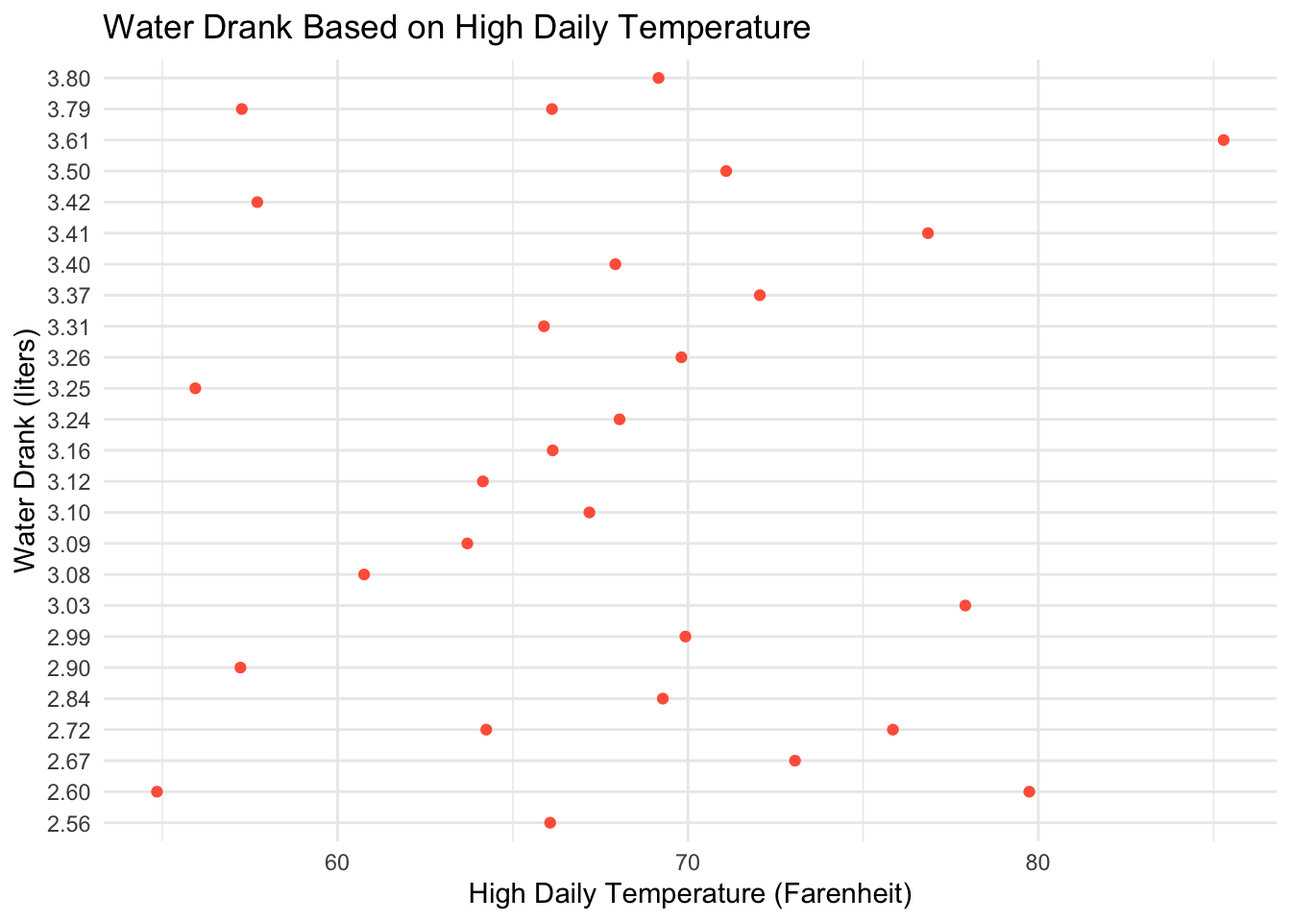
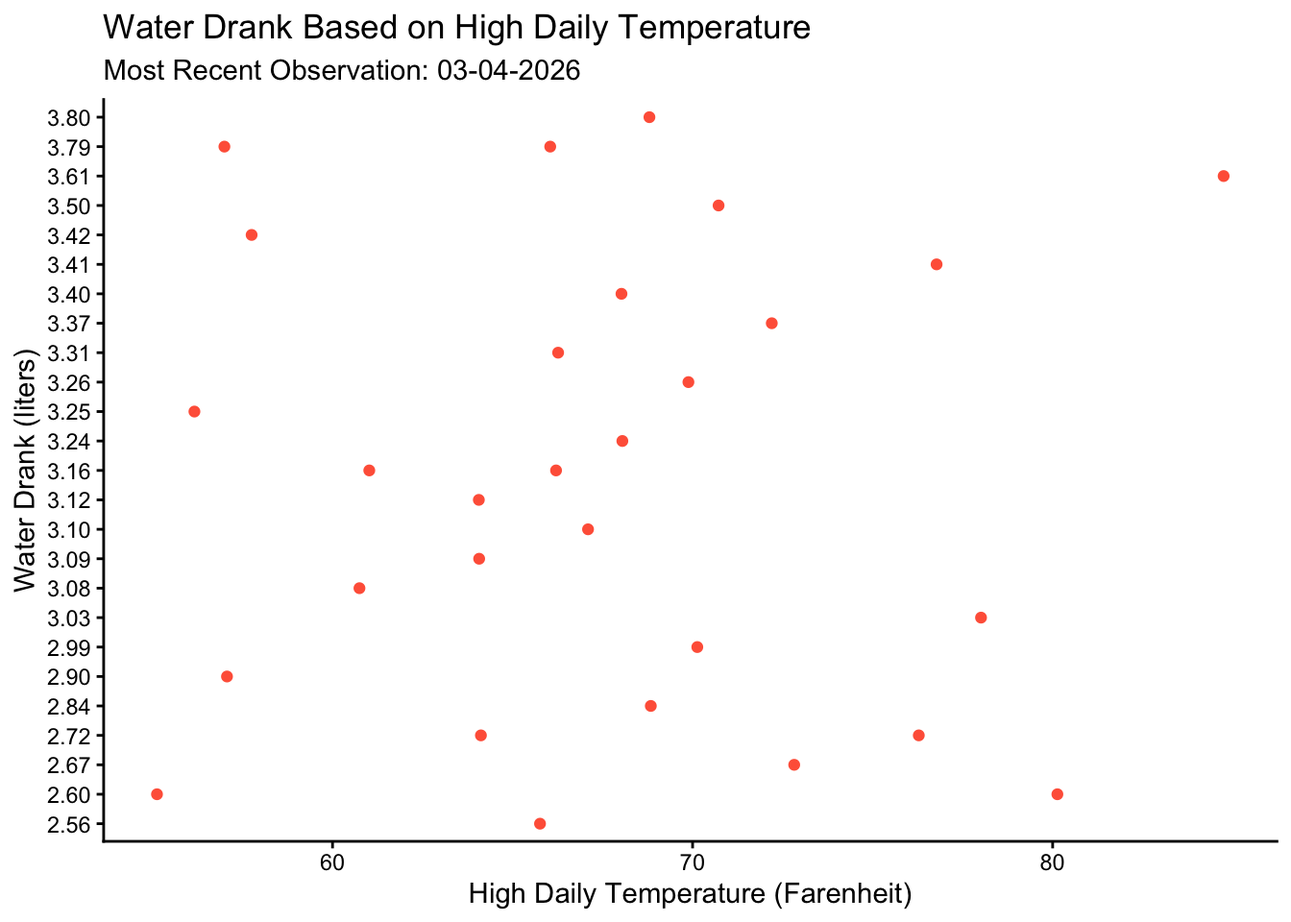
Committing all of my code and data

diff --git a/code/Homework-03.html b/code/Homework-03.html
@@ -135,7 +135,7 @@ window.Quarto = {
 
 
 <div class="cell">
-<div class="sourceCode cell-code" id="cb1"><pre class="sourceCode r code-with-copy"><code class="sourceCode r"><span id="cb1-1"><a href="#cb1-1" aria-hidden="true" tabindex="-1"></a><span class="fu">library</span>(tidyverse)</span></code><button title="Copy to Clipboard" class="code-copy-button"><i class="bi"></i></button></pre></div>
+<div class="sourceCode cell-code" id="cb1"><pre class="sourceCode r code-with-copy"><code class="sourceCode r"><span id="cb1-1"><a href="#cb1-1" aria-hidden="true" tabindex="-1"></a><span class="fu">library</span>(tidyverse) </span></code><button title="Copy to Clipboard" class="code-copy-button"><i class="bi"></i></button></pre></div>
 <div class="cell-output cell-output-stderr">
 <pre><code>── Attaching core tidyverse packages ──────────────────────── tidyverse 2.0.0 ──
 ✔ dplyr     1.2.0     ✔ readr     2.1.6
@@ -158,14 +158,14 @@ The following objects are masked from 'package:stats':
     chisq.test, fisher.test</code></pre>
 </div>
 <div class="sourceCode cell-code" id="cb5"><pre class="sourceCode r code-with-copy"><code class="sourceCode r"><span id="cb5-1"><a href="#cb5-1" aria-hidden="true" tabindex="-1"></a><span class="fu">library</span>(readxl)</span>
-<span id="cb5-2"><a href="#cb5-2" aria-hidden="true" tabindex="-1"></a><span class="fu">library</span>(ggeffects)</span></code><button title="Copy to Clipboard" class="code-copy-button"><i class="bi"></i></button></pre></div>
+<span id="cb5-2"><a href="#cb5-2" aria-hidden="true" tabindex="-1"></a><span class="fu">library</span>(ggeffects) <span class="co">#loading in the necessary packages for the homework assignment</span></span></code><button title="Copy to Clipboard" class="code-copy-button"><i class="bi"></i></button></pre></div>
 </div>
 <div class="cell">
-<div class="sourceCode cell-code" id="cb6"><pre class="sourceCode r code-with-copy"><code class="sourceCode r"><span id="cb6-1"><a href="#cb6-1" aria-hidden="true" tabindex="-1"></a><span class="fu">library</span>(here)</span></code><button title="Copy to Clipboard" class="code-copy-button"><i class="bi"></i></button></pre></div>
+<div class="sourceCode cell-code" id="cb6"><pre class="sourceCode r code-with-copy"><code class="sourceCode r"><span id="cb6-1"><a href="#cb6-1" aria-hidden="true" tabindex="-1"></a><span class="fu">library</span>(here) <span class="co">#building path from the root of my project folder</span></span></code><button title="Copy to Clipboard" class="code-copy-button"><i class="bi"></i></button></pre></div>
 <div class="cell-output cell-output-stderr">
 <pre><code>here() starts at /Users/danielmatthys/github/ENVS-193DS_homework-03</code></pre>
 </div>
-<div class="sourceCode cell-code" id="cb8"><pre class="sourceCode r code-with-copy"><code class="sourceCode r"><span id="cb8-1"><a href="#cb8-1" aria-hidden="true" tabindex="-1"></a>salinity <span class="ot">&lt;-</span> <span class="fu">read.csv</span>(<span class="fu">here</span>(<span class="st">"data"</span>, <span class="st">"salinity-pickleweed.csv"</span>))</span></code><button title="Copy to Clipboard" class="code-copy-button"><i class="bi"></i></button></pre></div>
+<div class="sourceCode cell-code" id="cb8"><pre class="sourceCode r code-with-copy"><code class="sourceCode r"><span id="cb8-1"><a href="#cb8-1" aria-hidden="true" tabindex="-1"></a>salinity <span class="ot">&lt;-</span> <span class="fu">read.csv</span>(<span class="fu">here</span>(<span class="st">"data"</span>, <span class="st">"salinity-pickleweed.csv"</span>)) <span class="co">#reading in my salinity and pickleweed data</span></span></code><button title="Copy to Clipboard" class="code-copy-button"><i class="bi"></i></button></pre></div>
 </div>
 <section id="problem-1" class="level2">
 <h2 class="anchored" data-anchor-id="problem-1">Problem 1</h2>
@@ -173,17 +173,17 @@ The following objects are masked from 'package:stats':
 <p>The appropriate tests to determine the strength of the relationship between salinity and pickleweed biomass are the Pearson’s correlation and Spearman rank correlation tests, telling us the significance of the effects of the predictor variable of salinity (mS/cm) on response variable pickleweed biomass (g). Pearson’s correlation is to be used if there is a linear relationship between the variables, variables are continuous, variables are normally distributed, and there are independent observations. Spearman rank correlation is to be used if there is a monotonic relationship between variables and there are independent observations.</p>
 <p><strong>b. Create visualization</strong></p>
 <div class="cell">
-<div class="sourceCode cell-code" id="cb9"><pre class="sourceCode r code-with-copy"><code class="sourceCode r"><span id="cb9-1"><a href="#cb9-1" aria-hidden="true" tabindex="-1"></a>salinity_lm <span class="ot">&lt;-</span> <span class="fu">lm</span>(</span>
-<span id="cb9-2"><a href="#cb9-2" aria-hidden="true" tabindex="-1"></a>                  pickleweed <span class="sc">~</span> salinity_mS_cm,</span>
-<span id="cb9-3"><a href="#cb9-3" aria-hidden="true" tabindex="-1"></a>                  <span class="at">data =</span> salinity)</span></code><button title="Copy to Clipboard" class="code-copy-button"><i class="bi"></i></button></pre></div>
+<div class="sourceCode cell-code" id="cb9"><pre class="sourceCode r code-with-copy"><code class="sourceCode r"><span id="cb9-1"><a href="#cb9-1" aria-hidden="true" tabindex="-1"></a>salinity_lm <span class="ot">&lt;-</span> <span class="fu">lm</span>( <span class="co">#creating an object called salinity_lm based on my linear model fit</span></span>
+<span id="cb9-2"><a href="#cb9-2" aria-hidden="true" tabindex="-1"></a>                  pickleweed <span class="sc">~</span> salinity_mS_cm, <span class="co">#using pickleweed biomass as the response and salinity as the predictor variables</span></span>
+<span id="cb9-3"><a href="#cb9-3" aria-hidden="true" tabindex="-1"></a>                  <span class="at">data =</span> salinity) <span class="co">#using the salinity object as my data</span></span></code><button title="Copy to Clipboard" class="code-copy-button"><i class="bi"></i></button></pre></div>
 </div>
 <div class="cell">
-<div class="sourceCode cell-code" id="cb10"><pre class="sourceCode r code-with-copy"><code class="sourceCode r"><span id="cb10-1"><a href="#cb10-1" aria-hidden="true" tabindex="-1"></a>salinity_preds <span class="ot">&lt;-</span> <span class="fu">ggpredict</span>(</span>
-<span id="cb10-2"><a href="#cb10-2" aria-hidden="true" tabindex="-1"></a>  salinity_lm,</span>
-<span id="cb10-3"><a href="#cb10-3" aria-hidden="true" tabindex="-1"></a>  <span class="at">terms =</span> <span class="st">"salinity_mS_cm"</span></span>
+<div class="sourceCode cell-code" id="cb10"><pre class="sourceCode r code-with-copy"><code class="sourceCode r"><span id="cb10-1"><a href="#cb10-1" aria-hidden="true" tabindex="-1"></a>salinity_preds <span class="ot">&lt;-</span> <span class="fu">ggpredict</span>( <span class="co">#creating an object called salinity_preds based on the ggpredict function, which visualizes predictions from the multiple regression models</span></span>
+<span id="cb10-2"><a href="#cb10-2" aria-hidden="true" tabindex="-1"></a>  salinity_lm, <span class="co">#using the salinity_lm object as my data</span></span>
+<span id="cb10-3"><a href="#cb10-3" aria-hidden="true" tabindex="-1"></a>  <span class="at">terms =</span> <span class="st">"salinity_mS_cm"</span> <span class="co">#going off of the salinity values</span></span>
 <span id="cb10-4"><a href="#cb10-4" aria-hidden="true" tabindex="-1"></a>)</span>
 <span id="cb10-5"><a href="#cb10-5" aria-hidden="true" tabindex="-1"></a></span>
-<span id="cb10-6"><a href="#cb10-6" aria-hidden="true" tabindex="-1"></a>salinity_preds</span></code><button title="Copy to Clipboard" class="code-copy-button"><i class="bi"></i></button></pre></div>
+<span id="cb10-6"><a href="#cb10-6" aria-hidden="true" tabindex="-1"></a>salinity_preds <span class="co">#displaying results</span></span></code><button title="Copy to Clipboard" class="code-copy-button"><i class="bi"></i></button></pre></div>
 <div class="cell-output cell-output-stdout">
 <pre><code># Predicted values of pickleweed
 
@@ -205,23 +205,25 @@ Not all rows are shown in the output. Use `print(..., n = Inf)` to show
 </div>
 </div>
 <div class="cell">
-<div class="sourceCode cell-code" id="cb13"><pre class="sourceCode r code-with-copy"><code class="sourceCode r"><span id="cb13-1"><a href="#cb13-1" aria-hidden="true" tabindex="-1"></a><span class="fu">ggplot</span>(<span class="at">data =</span> salinity,</span>
+<div class="sourceCode cell-code" id="cb13"><pre class="sourceCode r code-with-copy"><code class="sourceCode r"><span id="cb13-1"><a href="#cb13-1" aria-hidden="true" tabindex="-1"></a><span class="fu">ggplot</span>(<span class="at">data =</span> salinity, <span class="co">#creating a ggplot based on the salinity data</span></span>
 <span id="cb13-2"><a href="#cb13-2" aria-hidden="true" tabindex="-1"></a>       <span class="fu">aes</span>(<span class="at">x =</span> salinity_mS_cm,</span>
-<span id="cb13-3"><a href="#cb13-3" aria-hidden="true" tabindex="-1"></a>           <span class="at">y =</span> pickleweed)) <span class="sc">+</span> </span>
+<span id="cb13-3"><a href="#cb13-3" aria-hidden="true" tabindex="-1"></a>           <span class="at">y =</span> pickleweed)) <span class="sc">+</span> <span class="co">#x-axis shows the salinity values, y-axis shows the pickleweed biomass</span></span>
 <span id="cb13-4"><a href="#cb13-4" aria-hidden="true" tabindex="-1"></a>  <span class="fu">geom_point</span>(<span class="at">fill =</span> <span class="st">"tomato"</span>,</span>
-<span id="cb13-5"><a href="#cb13-5" aria-hidden="true" tabindex="-1"></a>             <span class="at">shape =</span> <span class="dv">22</span>) <span class="sc">+</span> </span>
-<span id="cb13-6"><a href="#cb13-6" aria-hidden="true" tabindex="-1"></a>  <span class="fu">geom_ribbon</span>(<span class="at">data =</span> salinity_preds,</span>
-<span id="cb13-7"><a href="#cb13-7" aria-hidden="true" tabindex="-1"></a>              <span class="fu">aes</span>(<span class="at">x =</span> x,</span>
-<span id="cb13-8"><a href="#cb13-8" aria-hidden="true" tabindex="-1"></a>                  <span class="at">y =</span> predicted,</span>
-<span id="cb13-9"><a href="#cb13-9" aria-hidden="true" tabindex="-1"></a>                  <span class="at">ymin =</span> conf.low,</span>
-<span id="cb13-10"><a href="#cb13-10" aria-hidden="true" tabindex="-1"></a>                  <span class="at">ymax =</span> conf.high,</span>
-<span id="cb13-11"><a href="#cb13-11" aria-hidden="true" tabindex="-1"></a>                  <span class="at">alpha =</span> <span class="fl">0.1</span>)) <span class="sc">+</span> </span>
-<span id="cb13-12"><a href="#cb13-12" aria-hidden="true" tabindex="-1"></a>  <span class="fu">geom_line</span>(<span class="at">data =</span> salinity_preds,</span>
-<span id="cb13-13"><a href="#cb13-13" aria-hidden="true" tabindex="-1"></a>            <span class="fu">aes</span>(<span class="at">x =</span> x,</span>
-<span id="cb13-14"><a href="#cb13-14" aria-hidden="true" tabindex="-1"></a>                <span class="at">y =</span> predicted),</span>
-<span id="cb13-15"><a href="#cb13-15" aria-hidden="true" tabindex="-1"></a>            <span class="at">color =</span> <span class="st">"blue"</span>) <span class="sc">+</span></span>
-<span id="cb13-16"><a href="#cb13-16" aria-hidden="true" tabindex="-1"></a>  <span class="fu">labs</span>(<span class="at">x =</span> <span class="st">"Salinity (mS/cm)"</span>,</span>
-<span id="cb13-17"><a href="#cb13-17" aria-hidden="true" tabindex="-1"></a>       <span class="at">y =</span> <span class="st">"Pickleweed biomass (g)"</span>) </span></code><button title="Copy to Clipboard" class="code-copy-button"><i class="bi"></i></button></pre></div>
+<span id="cb13-5"><a href="#cb13-5" aria-hidden="true" tabindex="-1"></a>             <span class="at">shape =</span> <span class="dv">22</span>) <span class="sc">+</span> <span class="co">#adding points to the plot to represent observations, making them red and squares</span></span>
+<span id="cb13-6"><a href="#cb13-6" aria-hidden="true" tabindex="-1"></a>  <span class="fu">geom_ribbon</span>(<span class="at">data =</span> salinity_preds, <span class="co">#adding a ribbon to visually represent the predictions of my multiple regression models</span></span>
+<span id="cb13-7"><a href="#cb13-7" aria-hidden="true" tabindex="-1"></a>              <span class="fu">aes</span>(<span class="at">x =</span> x, <span class="co">#x-axis is the x values</span></span>
+<span id="cb13-8"><a href="#cb13-8" aria-hidden="true" tabindex="-1"></a>                  <span class="at">y =</span> predicted, <span class="co">#y-axis is the predicted values</span></span>
+<span id="cb13-9"><a href="#cb13-9" aria-hidden="true" tabindex="-1"></a>                  <span class="at">ymin =</span> conf.low, <span class="co">#y-min is the low-end of the confidence interval</span></span>
+<span id="cb13-10"><a href="#cb13-10" aria-hidden="true" tabindex="-1"></a>                  <span class="at">ymax =</span> conf.high, <span class="co">#y-max is the high-end of the confidence interval</span></span>
+<span id="cb13-11"><a href="#cb13-11" aria-hidden="true" tabindex="-1"></a>                  <span class="at">alpha =</span> <span class="fl">0.1</span>)) <span class="sc">+</span> <span class="co">#changing the transparency value</span></span>
+<span id="cb13-12"><a href="#cb13-12" aria-hidden="true" tabindex="-1"></a>  <span class="fu">geom_line</span>(<span class="at">data =</span> salinity_preds, <span class="co">#adding in an equation line for my linear regression model</span></span>
+<span id="cb13-13"><a href="#cb13-13" aria-hidden="true" tabindex="-1"></a>            <span class="fu">aes</span>(<span class="at">x =</span> x, <span class="co">#x-axis is the x values</span></span>
+<span id="cb13-14"><a href="#cb13-14" aria-hidden="true" tabindex="-1"></a>                <span class="at">y =</span> predicted), <span class="co">#y-axis is the predicted values</span></span>
+<span id="cb13-15"><a href="#cb13-15" aria-hidden="true" tabindex="-1"></a>            <span class="at">color =</span> <span class="st">"blue"</span>) <span class="sc">+</span> <span class="co">#making the line blue</span></span>
+<span id="cb13-16"><a href="#cb13-16" aria-hidden="true" tabindex="-1"></a>  <span class="fu">theme_classic</span>() <span class="sc">+</span> <span class="co">#changing the theme to get rid of background noise (gridlines and color)</span></span>
+<span id="cb13-17"><a href="#cb13-17" aria-hidden="true" tabindex="-1"></a>  <span class="fu">labs</span>(<span class="at">x =</span> <span class="st">"Salinity (mS/cm)"</span>, <span class="co">#labeling the x-axis</span></span>
+<span id="cb13-18"><a href="#cb13-18" aria-hidden="true" tabindex="-1"></a>       <span class="at">y =</span> <span class="st">"Pickleweed biomass (g)"</span>, <span class="co">#labeling the y-axis</span></span>
+<span id="cb13-19"><a href="#cb13-19" aria-hidden="true" tabindex="-1"></a>       <span class="at">title =</span> <span class="st">"Pickleweed Biomass Depending on Salinity Levels"</span>) <span class="co">#creating a title</span></span></code><button title="Copy to Clipboard" class="code-copy-button"><i class="bi"></i></button></pre></div>
 <div class="cell-output-display">
 <div>
 <figure class="figure">
@@ -234,7 +236,7 @@ Not all rows are shown in the output. Use `print(..., n = Inf)` to show
 <p>Check assumptions</p>
 <div class="cell">
 <div class="sourceCode cell-code" id="cb14"><pre class="sourceCode r code-with-copy"><code class="sourceCode r"><span id="cb14-1"><a href="#cb14-1" aria-hidden="true" tabindex="-1"></a><span class="fu">par</span>(<span class="at">mfrow =</span> <span class="fu">c</span>(<span class="dv">2</span>,<span class="dv">2</span>))</span>
-<span id="cb14-2"><a href="#cb14-2" aria-hidden="true" tabindex="-1"></a><span class="fu">plot</span>(salinity_lm)</span></code><button title="Copy to Clipboard" class="code-copy-button"><i class="bi"></i></button></pre></div>
+<span id="cb14-2"><a href="#cb14-2" aria-hidden="true" tabindex="-1"></a><span class="fu">plot</span>(salinity_lm) <span class="co">#rendering my diagnostic plots for the salinity_lm data with 2 rows of 2</span></span></code><button title="Copy to Clipboard" class="code-copy-button"><i class="bi"></i></button></pre></div>
 <div class="cell-output-display">
 <div>
 <figure class="figure">
@@ -246,9 +248,9 @@ Not all rows are shown in the output. Use `print(..., n = Inf)` to show
 <p>Above, I created plots for residuals vs.&nbsp;fitted and scale-location to check the homoscedasticity of the observations, and because the red line is relatively straight it would suggest that the relationship between variables is linear. The Q-Q Residuals plot tells us whether there is normal distribution with the observations, and looking at this plot there is not significant deviation from the line and we can determine that there is normal distribution. Looking at the salinity data, the variables are continuous and the individual pickleweed plants are individual observations, which in conjunction with the above assumptions tells us that we can use Pearson’s correlation.</p>
 <p>Run your test</p>
 <div class="cell">
-<div class="sourceCode cell-code" id="cb15"><pre class="sourceCode r code-with-copy"><code class="sourceCode r"><span id="cb15-1"><a href="#cb15-1" aria-hidden="true" tabindex="-1"></a><span class="fu">cor.test</span>(salinity<span class="sc">$</span>salinity_mS_cm,</span>
+<div class="sourceCode cell-code" id="cb15"><pre class="sourceCode r code-with-copy"><code class="sourceCode r"><span id="cb15-1"><a href="#cb15-1" aria-hidden="true" tabindex="-1"></a><span class="fu">cor.test</span>(salinity<span class="sc">$</span>salinity_mS_cm, </span>
 <span id="cb15-2"><a href="#cb15-2" aria-hidden="true" tabindex="-1"></a>         salinity<span class="sc">$</span>pickleweed,</span>
-<span id="cb15-3"><a href="#cb15-3" aria-hidden="true" tabindex="-1"></a>         <span class="at">method =</span> <span class="st">"pearson"</span>)</span></code><button title="Copy to Clipboard" class="code-copy-button"><i class="bi"></i></button></pre></div>
+<span id="cb15-3"><a href="#cb15-3" aria-hidden="true" tabindex="-1"></a>         <span class="at">method =</span> <span class="st">"pearson"</span>) <span class="co">#running a Pearson's correlation test for the salinity data, with salinity as the predictor and pickleweed biomass as the response variables</span></span></code><button title="Copy to Clipboard" class="code-copy-button"><i class="bi"></i></button></pre></div>
 <div class="cell-output cell-output-stdout">
 <pre><code>
     Pearson's product-moment correlation
@@ -272,7 +274,7 @@ sample estimates:
 <div class="cell">
 <div class="sourceCode cell-code" id="cb17"><pre class="sourceCode r code-with-copy"><code class="sourceCode r"><span id="cb17-1"><a href="#cb17-1" aria-hidden="true" tabindex="-1"></a><span class="fu">cor.test</span>(salinity<span class="sc">$</span>salinity_mS_cm,</span>
 <span id="cb17-2"><a href="#cb17-2" aria-hidden="true" tabindex="-1"></a>         salinity<span class="sc">$</span>pickleweed,</span>
-<span id="cb17-3"><a href="#cb17-3" aria-hidden="true" tabindex="-1"></a>         <span class="at">method =</span> <span class="st">"spearman"</span>)</span></code><button title="Copy to Clipboard" class="code-copy-button"><i class="bi"></i></button></pre></div>
+<span id="cb17-3"><a href="#cb17-3" aria-hidden="true" tabindex="-1"></a>         <span class="at">method =</span> <span class="st">"spearman"</span>) <span class="co">#running a Spearman correlation test for the salinity data, with salinity as the predictor and pickleweed biomass as the response variables</span></span></code><button title="Copy to Clipboard" class="code-copy-button"><i class="bi"></i></button></pre></div>
 <div class="cell-output cell-output-stdout">
 <pre><code>
     Spearman's rank correlation rho
@@ -292,25 +294,26 @@ sample estimates:
 <h2 class="anchored" data-anchor-id="problem-2.-personal-data">Problem 2. Personal data</h2>
 <p><strong>a. Updating your visualizations</strong></p>
 <div class="cell">
-<div class="sourceCode cell-code" id="cb19"><pre class="sourceCode r code-with-copy"><code class="sourceCode r"><span id="cb19-1"><a href="#cb19-1" aria-hidden="true" tabindex="-1"></a><span class="fu">library</span>(here)</span>
+<div class="sourceCode cell-code" id="cb19"><pre class="sourceCode r code-with-copy"><code class="sourceCode r"><span id="cb19-1"><a href="#cb19-1" aria-hidden="true" tabindex="-1"></a><span class="fu">library</span>(here) <span class="co">#building path from the root of my project folder</span></span>
 <span id="cb19-2"><a href="#cb19-2" aria-hidden="true" tabindex="-1"></a></span>
-<span id="cb19-3"><a href="#cb19-3" aria-hidden="true" tabindex="-1"></a>personal <span class="ot">&lt;-</span> <span class="fu">read_xlsx</span>(<span class="fu">here</span>(<span class="st">"data/Data_Project_Water_Idea_HW3.xlsx"</span>))</span></code><button title="Copy to Clipboard" class="code-copy-button"><i class="bi"></i></button></pre></div>
+<span id="cb19-3"><a href="#cb19-3" aria-hidden="true" tabindex="-1"></a>personal <span class="ot">&lt;-</span> <span class="fu">read_xlsx</span>(<span class="fu">here</span>(<span class="st">"data/Data_Project_Water_Idea_HW3.xlsx"</span>)) <span class="co">#reading in my data for my personal project</span></span></code><button title="Copy to Clipboard" class="code-copy-button"><i class="bi"></i></button></pre></div>
 </div>
 <div class="cell">
-<div class="sourceCode cell-code" id="cb20"><pre class="sourceCode r code-with-copy"><code class="sourceCode r"><span id="cb20-1"><a href="#cb20-1" aria-hidden="true" tabindex="-1"></a>personal_clean <span class="ot">&lt;-</span> personal <span class="sc">|&gt;</span> </span>
-<span id="cb20-2"><a href="#cb20-2" aria-hidden="true" tabindex="-1"></a>  <span class="fu">clean_names</span>()</span></code><button title="Copy to Clipboard" class="code-copy-button"><i class="bi"></i></button></pre></div>
+<div class="sourceCode cell-code" id="cb20"><pre class="sourceCode r code-with-copy"><code class="sourceCode r"><span id="cb20-1"><a href="#cb20-1" aria-hidden="true" tabindex="-1"></a>personal_clean <span class="ot">&lt;-</span> personal <span class="sc">|&gt;</span> <span class="co">#creating a new object named personal_clean based on the personal data</span></span>
+<span id="cb20-2"><a href="#cb20-2" aria-hidden="true" tabindex="-1"></a>  <span class="fu">clean_names</span>() <span class="co">#cleaning names to only have lower case and underscores</span></span></code><button title="Copy to Clipboard" class="code-copy-button"><i class="bi"></i></button></pre></div>
 </div>
 <div class="cell">
-<div class="sourceCode cell-code" id="cb21"><pre class="sourceCode r code-with-copy"><code class="sourceCode r"><span id="cb21-1"><a href="#cb21-1" aria-hidden="true" tabindex="-1"></a><span class="fu">ggplot</span>(<span class="at">data =</span> personal_clean,</span>
-<span id="cb21-2"><a href="#cb21-2" aria-hidden="true" tabindex="-1"></a>       <span class="fu">aes</span>(<span class="at">x =</span> high_daily_temperature_f,</span>
-<span id="cb21-3"><a href="#cb21-3" aria-hidden="true" tabindex="-1"></a>           <span class="at">y =</span> water_drank_l)) <span class="sc">+</span> </span>
-<span id="cb21-4"><a href="#cb21-4" aria-hidden="true" tabindex="-1"></a>  <span class="fu">geom_jitter</span>(<span class="at">height =</span> <span class="dv">0</span>,</span>
-<span id="cb21-5"><a href="#cb21-5" aria-hidden="true" tabindex="-1"></a>              <span class="at">width =</span> <span class="fl">0.3</span>,</span>
-<span id="cb21-6"><a href="#cb21-6" aria-hidden="true" tabindex="-1"></a>              <span class="at">color =</span> <span class="st">"tomato"</span>) <span class="sc">+</span> </span>
-<span id="cb21-7"><a href="#cb21-7" aria-hidden="true" tabindex="-1"></a>  <span class="fu">labs</span>(<span class="at">x =</span> <span class="st">"High Daily Temperature (Farenheit)"</span>,</span>
-<span id="cb21-8"><a href="#cb21-8" aria-hidden="true" tabindex="-1"></a>       <span class="at">y =</span> <span class="st">"Water Drank (liters)"</span>,</span>
-<span id="cb21-9"><a href="#cb21-9" aria-hidden="true" tabindex="-1"></a>       <span class="at">title =</span> <span class="st">"Water Drank Based on High Daily Temperature"</span>) <span class="sc">+</span></span>
-<span id="cb21-10"><a href="#cb21-10" aria-hidden="true" tabindex="-1"></a>  <span class="fu">theme_minimal</span>()</span></code><button title="Copy to Clipboard" class="code-copy-button"><i class="bi"></i></button></pre></div>
+<div class="sourceCode cell-code" id="cb21"><pre class="sourceCode r code-with-copy"><code class="sourceCode r"><span id="cb21-1"><a href="#cb21-1" aria-hidden="true" tabindex="-1"></a><span class="fu">ggplot</span>(<span class="at">data =</span> personal_clean, <span class="co">#creating a ggplot based on the personal_clean data</span></span>
+<span id="cb21-2"><a href="#cb21-2" aria-hidden="true" tabindex="-1"></a>       <span class="fu">aes</span>(<span class="at">x =</span> high_daily_temperature_f, <span class="co">#x-axis represents the high daily temperature in farenheit</span></span>
+<span id="cb21-3"><a href="#cb21-3" aria-hidden="true" tabindex="-1"></a>           <span class="at">y =</span> water_drank_l)) <span class="sc">+</span> <span class="co">#y-axis represents water drank in liters</span></span>
+<span id="cb21-4"><a href="#cb21-4" aria-hidden="true" tabindex="-1"></a>  <span class="fu">geom_jitter</span>(<span class="at">height =</span> <span class="dv">0</span>, <span class="co">#making it a jitter plot with zero vertical jitter</span></span>
+<span id="cb21-5"><a href="#cb21-5" aria-hidden="true" tabindex="-1"></a>              <span class="at">width =</span> <span class="fl">0.3</span>, <span class="co">#horizontal jitter is a value of 0.3</span></span>
+<span id="cb21-6"><a href="#cb21-6" aria-hidden="true" tabindex="-1"></a>              <span class="at">color =</span> <span class="st">"tomato"</span>) <span class="sc">+</span> <span class="co">#making the points red</span></span>
+<span id="cb21-7"><a href="#cb21-7" aria-hidden="true" tabindex="-1"></a>  <span class="fu">labs</span>(<span class="at">x =</span> <span class="st">"High Daily Temperature (Farenheit)"</span>, <span class="co">#labeling the x-axis</span></span>
+<span id="cb21-8"><a href="#cb21-8" aria-hidden="true" tabindex="-1"></a>       <span class="at">y =</span> <span class="st">"Water Drank (liters)"</span>, <span class="co">#labeling the y-axis</span></span>
+<span id="cb21-9"><a href="#cb21-9" aria-hidden="true" tabindex="-1"></a>       <span class="at">title =</span> <span class="st">"Water Drank Based on High Daily Temperature"</span>, <span class="co">#creating a title</span></span>
+<span id="cb21-10"><a href="#cb21-10" aria-hidden="true" tabindex="-1"></a>       <span class="at">subtitle =</span> <span class="st">"Most Recent Observation: 03-04-2026"</span>) <span class="sc">+</span> <span class="co">#creating a subtitle</span></span>
+<span id="cb21-11"><a href="#cb21-11" aria-hidden="true" tabindex="-1"></a>  <span class="fu">theme_classic</span>() <span class="co">#changing the theme to classic and getting rid of visual clutter</span></span></code><button title="Copy to Clipboard" class="code-copy-button"><i class="bi"></i></button></pre></div>
 <div class="cell-output-display">
 <div>
 <figure class="figure">
@@ -320,16 +323,19 @@ sample estimates:
 </div>
 </div>
 <div class="cell">
-<div class="sourceCode cell-code" id="cb22"><pre class="sourceCode r code-with-copy"><code class="sourceCode r"><span id="cb22-1"><a href="#cb22-1" aria-hidden="true" tabindex="-1"></a><span class="fu">ggplot</span>(<span class="at">data =</span> personal_clean,</span>
-<span id="cb22-2"><a href="#cb22-2" aria-hidden="true" tabindex="-1"></a>       <span class="fu">aes</span>(<span class="at">x =</span> exercised,</span>
-<span id="cb22-3"><a href="#cb22-3" aria-hidden="true" tabindex="-1"></a>           <span class="at">y =</span> water_drank_l,</span>
-<span id="cb22-4"><a href="#cb22-4" aria-hidden="true" tabindex="-1"></a>           <span class="at">color =</span> exercised)) <span class="sc">+</span> </span>
-<span id="cb22-5"><a href="#cb22-5" aria-hidden="true" tabindex="-1"></a>  <span class="fu">geom_jitter</span>(<span class="at">height =</span> <span class="dv">0</span>,</span>
-<span id="cb22-6"><a href="#cb22-6" aria-hidden="true" tabindex="-1"></a>              <span class="at">width =</span> <span class="fl">0.3</span>) <span class="sc">+</span> </span>
-<span id="cb22-7"><a href="#cb22-7" aria-hidden="true" tabindex="-1"></a>  <span class="fu">labs</span>(<span class="at">x =</span> <span class="st">"Exercised (Yes/No)"</span>,</span>
-<span id="cb22-8"><a href="#cb22-8" aria-hidden="true" tabindex="-1"></a>       <span class="at">y =</span> <span class="st">"Water Drank (liters)"</span>,</span>
-<span id="cb22-9"><a href="#cb22-9" aria-hidden="true" tabindex="-1"></a>       <span class="at">title =</span> <span class="st">"Water Drank Based on Exercise"</span>) <span class="sc">+</span> </span>
-<span id="cb22-10"><a href="#cb22-10" aria-hidden="true" tabindex="-1"></a>  <span class="fu">theme_minimal</span>()</span></code><button title="Copy to Clipboard" class="code-copy-button"><i class="bi"></i></button></pre></div>
+<div class="sourceCode cell-code" id="cb22"><pre class="sourceCode r code-with-copy"><code class="sourceCode r"><span id="cb22-1"><a href="#cb22-1" aria-hidden="true" tabindex="-1"></a><span class="fu">ggplot</span>(<span class="at">data =</span> personal_clean, <span class="co">#creating a ggplot based on the personal_clean data</span></span>
+<span id="cb22-2"><a href="#cb22-2" aria-hidden="true" tabindex="-1"></a>       <span class="fu">aes</span>(<span class="at">x =</span> exercised, <span class="co">#x-axis represents exercise categories</span></span>
+<span id="cb22-3"><a href="#cb22-3" aria-hidden="true" tabindex="-1"></a>           <span class="at">y =</span> water_drank_l, <span class="co">#y-axis represents water drank in liters</span></span>
+<span id="cb22-4"><a href="#cb22-4" aria-hidden="true" tabindex="-1"></a>           <span class="at">color =</span> exercised)) <span class="sc">+</span> <span class="co">#color is dependent on which exercise category you're under</span></span>
+<span id="cb22-5"><a href="#cb22-5" aria-hidden="true" tabindex="-1"></a>  <span class="fu">geom_jitter</span>(<span class="at">height =</span> <span class="dv">0</span>, <span class="co">#making it a jitter plot with zero vertical jitter</span></span>
+<span id="cb22-6"><a href="#cb22-6" aria-hidden="true" tabindex="-1"></a>              <span class="at">width =</span> <span class="fl">0.3</span>) <span class="sc">+</span> <span class="co">#horizontal jitter value is 0.3</span></span>
+<span id="cb22-7"><a href="#cb22-7" aria-hidden="true" tabindex="-1"></a>  <span class="fu">scale_color_manual</span>(<span class="at">values =</span> <span class="fu">c</span>(<span class="st">"red"</span>, <span class="st">"blue"</span>)) <span class="sc">+</span> <span class="co">#changing colors from default</span></span>
+<span id="cb22-8"><a href="#cb22-8" aria-hidden="true" tabindex="-1"></a>  <span class="fu">labs</span>(<span class="at">x =</span> <span class="st">"Exercised (Yes/No)"</span>, <span class="co">#labeling the x-axis</span></span>
+<span id="cb22-9"><a href="#cb22-9" aria-hidden="true" tabindex="-1"></a>       <span class="at">y =</span> <span class="st">"Water Drank (liters)"</span>, <span class="co">#labeling the y-axis</span></span>
+<span id="cb22-10"><a href="#cb22-10" aria-hidden="true" tabindex="-1"></a>       <span class="at">title =</span> <span class="st">"Water Drank Based on Exercise"</span>,   <span class="co">#creating a title</span></span>
+<span id="cb22-11"><a href="#cb22-11" aria-hidden="true" tabindex="-1"></a>       <span class="at">subtitle =</span> <span class="st">"Most Recent Observation: 03-04-2026"</span>) <span class="sc">+</span> <span class="co">#creating a subtitle</span></span>
+<span id="cb22-12"><a href="#cb22-12" aria-hidden="true" tabindex="-1"></a>  <span class="fu">theme_classic</span>() <span class="sc">+</span> <span class="co">#changing the theme to classic and getting rid of visual clutter</span></span>
+<span id="cb22-13"><a href="#cb22-13" aria-hidden="true" tabindex="-1"></a>  <span class="fu">theme</span>(<span class="at">legend.position =</span> <span class="st">"none"</span>) <span class="co">#getting rid of the legend</span></span></code><button title="Copy to Clipboard" class="code-copy-button"><i class="bi"></i></button></pre></div>
 <div class="cell-output-display">
 <div>
 <figure class="figure">
@@ -350,6 +356,8 @@ sample estimates:
 <p><img src="images/Personal_data_draft.jpeg" class="img-fluid"></p>
 <p><strong>d.&nbsp;Write an artist statement</strong></p>
 <p>I am showing the relationship between the predictor variable of whether I exercised that day or not, and the response variable of how much water I drank in L. I took influence from the paintings of Jill Pelto, along with the “Dear Data” project of Stefanie Posavec and Giorgia Lupi. The form of my work is through a pen and marker drawing. I created this work by beginning with a pencil sketch, then finalizing my pencil line work, and finally filling in with marker and outlining in black.</p>
+<p><strong>e. Prepared materials for class</strong></p>
+<p><a href="https://docs.google.com/presentation/d/1pu7ZRzPmM9qGvmD8HjZWTgp03hyWCaLvJaji3QshfNw/edit?usp=sharing">View</a></p>
 </section>
 <section id="problem-4.-statistical-critique" class="level2">
 <h2 class="anchored" data-anchor-id="problem-4.-statistical-critique">Problem 4. Statistical critique</h2>
